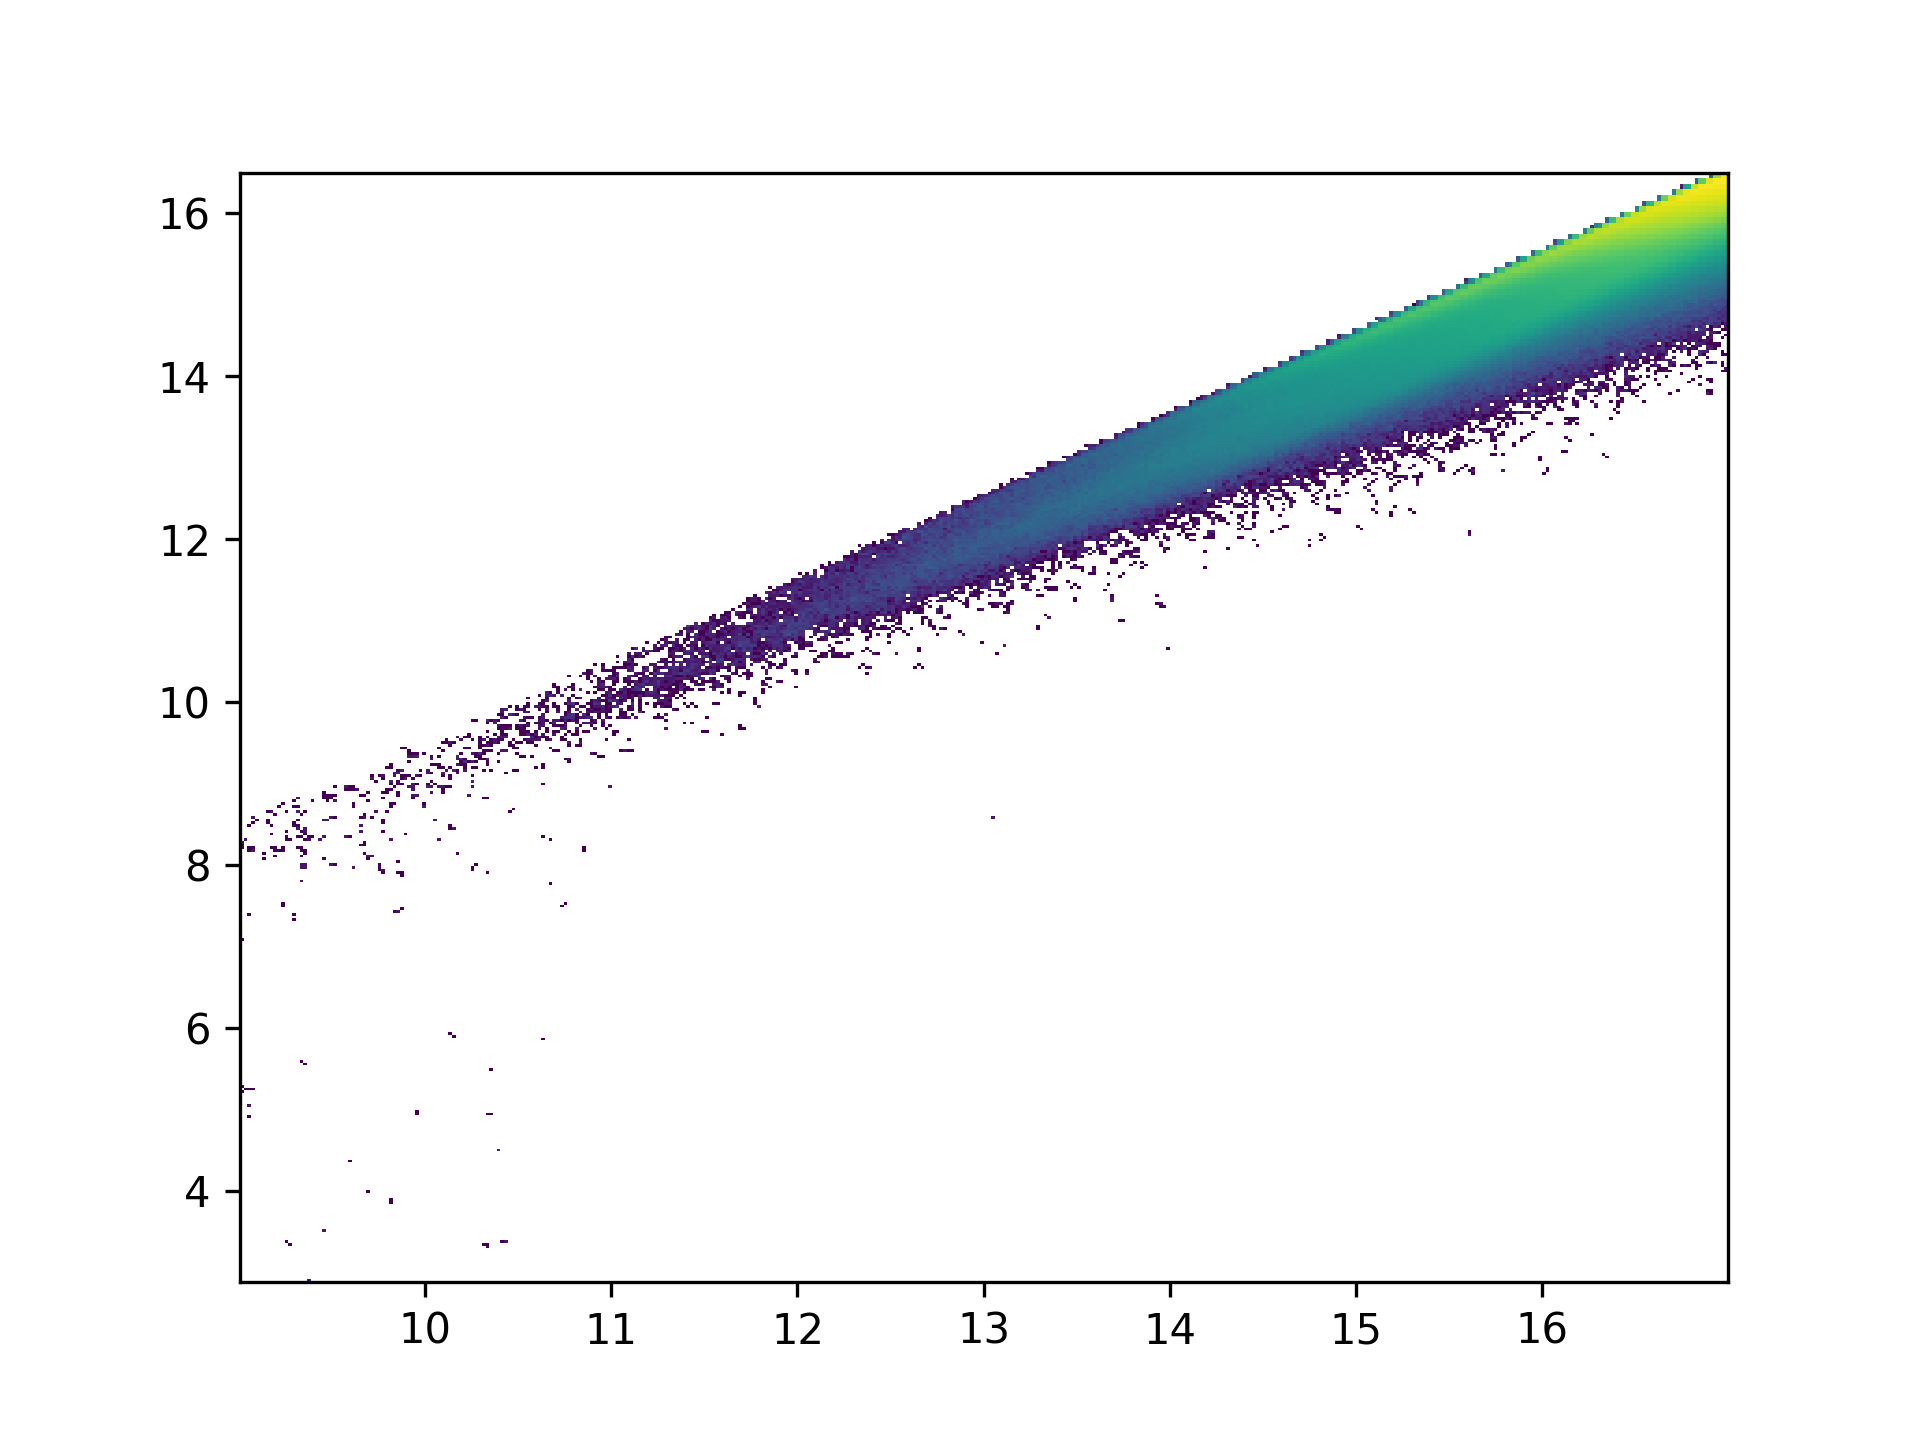
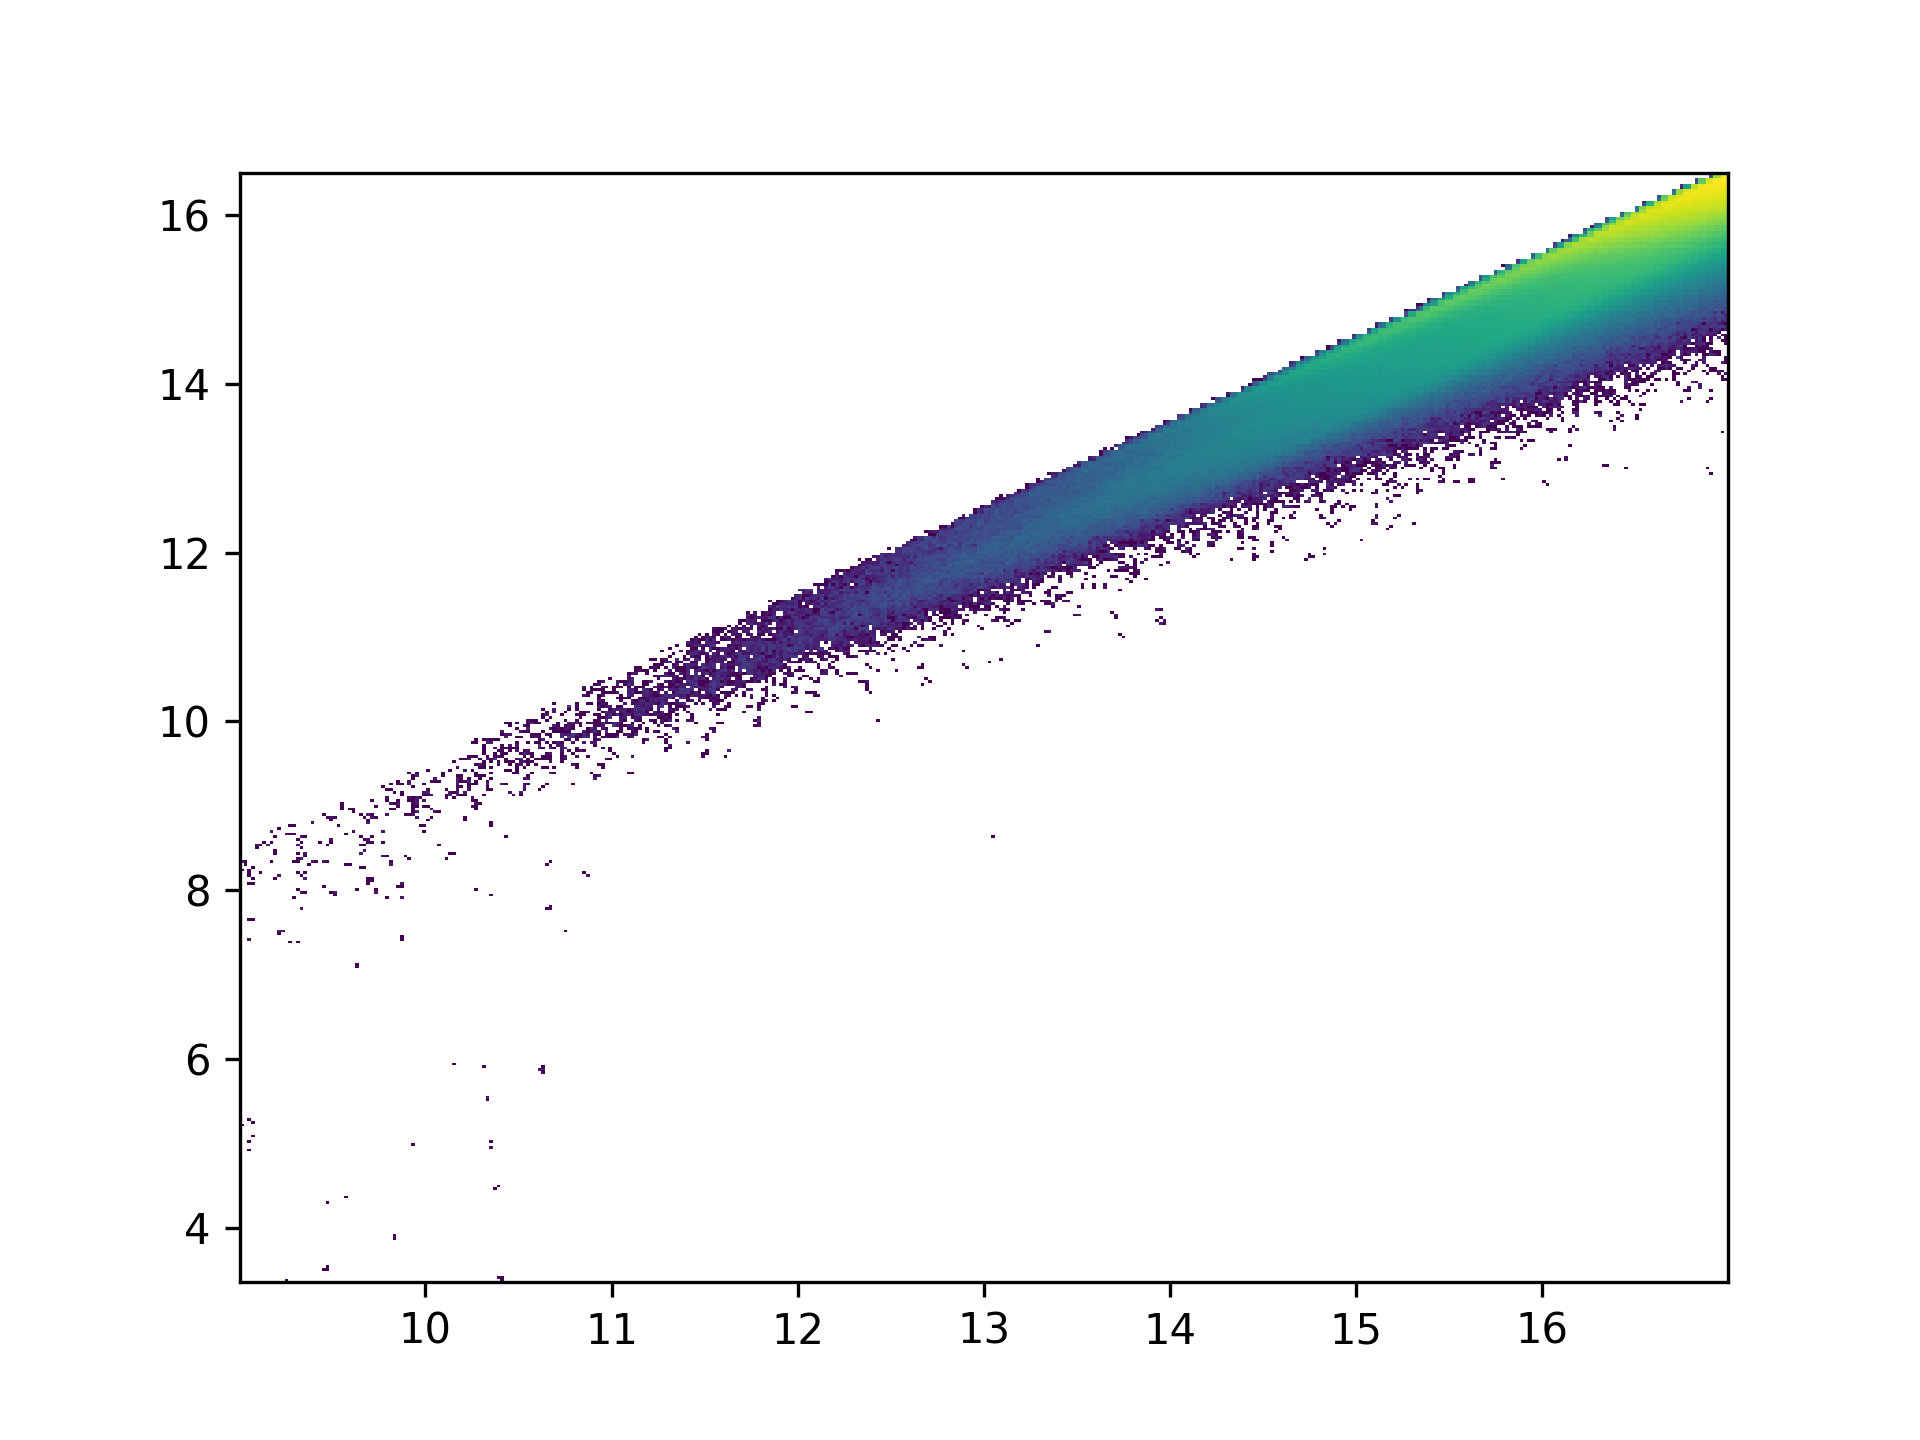
update precomputed data with refined grid

diff --git a/src/catsim/simulator.py b/src/catsim/simulator.py
@@ -295,16 +295,24 @@ class Catwise:
             # coverage_query[:, 0] = boosted_w1_samples
             # coverage_query[:, 1] = source_logw1_cov
 
+            cov_delta = source_logw1_cov - source_logw2_cov
+            cov_mean = 0.5 * (source_logw1_cov + source_logw2_cov)
+
             hashgrid_out = self.hashgrid.sample(
                 grid_coords={
                     'w1': boosted_w1_samples,
-                    'w1cov': source_logw1_cov,
+                    'delta_cov': cov_delta,
+                    # 'w1cov': source_logw1_cov,
                     'w2': boosted_w2_samples,
-                    'w2cov': source_logw2_cov
+                    'mean_cov': cov_mean
+                    # 'w2cov': source_logw2_cov
                 },
-                rng=rng
+                rng=rng,
+                report_success=True
             )
             w1_error = hashgrid_out[:, 0]; w2_error = hashgrid_out[:, 1]
+            w1_error += rng.normal(loc=0, scale=0.001, size=len(w1_error))
+            w2_error += rng.normal(loc=0, scale=0.001, size=len(w2_error))
 
             # w1_error, w2_error = sample_sigma_w1w2_from_bins_vectorized_fast(
             #     x_vals=boosted_w1_samples,
@@ -793,16 +801,15 @@ class Catwise:
         # load catalogue and mask
         if not self.catalogue_is_loaded:
             self.load_catalogue()
-        self.determine_masked_pixels()
+        self.determine_masked_pixels(mask_north_ecliptic=True)
         self.make_masked_catalogue()
 
         self.create_w1_w2_distribution()
-        # self.create_spectral_index_distribution(no_check=no_check)
-        # self.create_error_map()
         self.create_coverage_maps()
-        # self.create_magnitude_coverage_function()
-        # self.create_magnitude_coverage_cell_dist()
-        self.create_mag_cov_hashgrid()
+        self.create_mag_cov_hashgrid(
+            grid_step=[0.1, 0.01, 0.1, 0.02], 
+            project_coverage=True
+        )
     
     def make_masked_catalogue(self):
         assert self.catalogue_is_loaded, 'Load catalogue first.'
@@ -869,14 +876,32 @@ class Catwise:
 
             print(f'Saved coverage map figures at {coverage_dir}.')
 
-    def create_mag_cov_hashgrid(self):
+    def create_mag_cov_hashgrid(
+            self, 
+            grid_step: list[float], 
+            project_coverage: bool = False
+    ) -> None:
         cat = self.masked_catalogue
-        grid_coords = {
-            'w1': cat['w1'],
-            'w1cov': np.log10(cat['w1cov']),
-            'w2': cat['w2'],
-            'w2cov': np.log10(cat['w2cov'])
-        }
+        logw1cov = np.log10(cat['w1cov'])
+        logw2cov = np.log10(cat['w2cov'])
+
+        if project_coverage:
+            delta_cov = logw1cov - logw2cov
+            mean_cov = 0.5 * ( logw1cov + logw2cov )
+            grid_coords = {
+                'w1': cat['w1'],
+                'delta_cov': delta_cov,
+                'w2': cat['w2'],
+                'mean_cov': mean_cov
+            }
+        else:
+            grid_coords = {
+                'w1': cat['w1'],
+                'w1cov': logw1cov,
+                'w2': cat['w2'],
+                'w2cov': logw2cov
+            }
+
         grid_values = {
             'w1e': cat['w1e'],
             'w2e': cat['w2e']
@@ -884,7 +909,7 @@ class Catwise:
         hashgrid = HashGrid(
             grid_coords=grid_coords,
             grid_values=grid_values,
-            grid_step=[0.1, 0.1, 0.1, 0.1]
+            grid_step=grid_step
         )
 
         with data_path(self.cut_path, 'mag_coverage') as file_dir:
@@ -1154,7 +1179,7 @@ class Catwise:
         self.spectral_lookup = AlphaLookup()
         
         # mask now instead of during each loop
-        self.determine_masked_pixels()
+        self.determine_masked_pixels(mask_north_ecliptic=True)
 
         self.lookups_are_initialised = True
         
@@ -1238,14 +1263,15 @@ class Catwise:
                 **hist_kwargs
             }
         )
-        path = f'dipolesbi/catwise/{self.cut_path}/data/colour_mag/'
-        sampler.save_data(path)
-        print(f'Saved W1-W2 distribution to {path}.')
 
-        print(f'Generating W1-W2 distribution plot...')
-        w1_samples, w2_samples = sampler.sample(n_samples=30_000_000)
-        plt.hist2d(w1_samples, w2_samples, bins=400, norm='log')
-        plt.savefig(f'{path}w1_w2_dist.png', dpi=300)
+        with data_path(self.cut_path, 'colour_mag') as colour_mag_dir:
+            sampler.save_data(colour_mag_dir)
+            print(f'Saved W1-W2 distribution to {colour_mag_dir}.')
+
+            w1_samples, w2_samples = sampler.sample(n_samples=30_000_000)
+            plt.hist2d(w1_samples, w2_samples, bins=400, norm='log')
+            plt.savefig(colour_mag_dir / 'w1_w2_dist.png', dpi=300)
+            print(f'Generated W1-W2 distribution plot...')
     
     def resample_catwise_magnitudes(
             self,